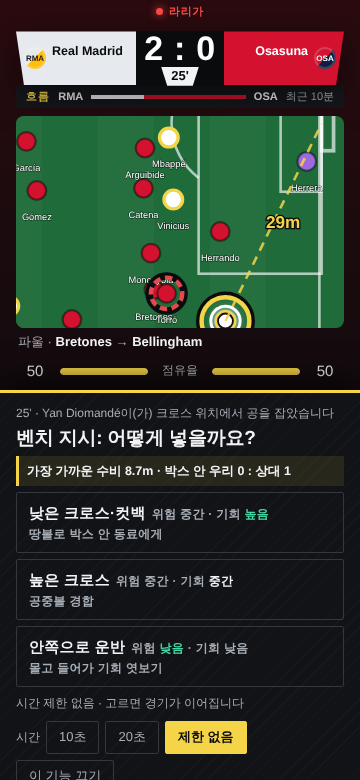
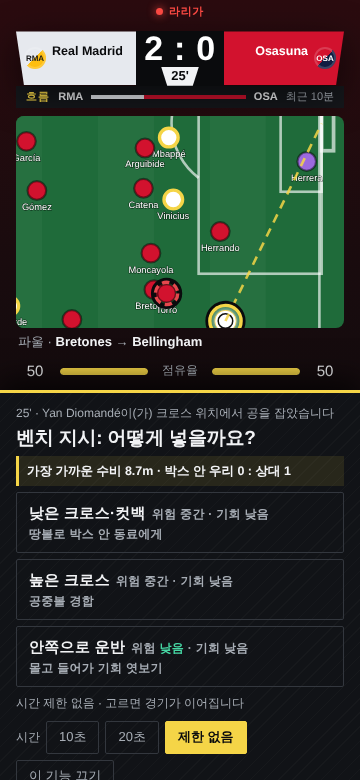
v269 후보: 결정 장면 확대 시 선수 원·이름 속성으로 축소(폰에서 겹침), 링 작게, 비세트피스 거리 글자 제거, 1대1 성향 3칸 막대(정보 줄), 승무패 예상에 선수 컨디션 반영
Claude-Session: https://claude.ai/code/session_01KSFtnn9mz1q7VWvYUaa5sq

diff --git a/src/app/0995_dec_view.js b/src/app/0995_dec_view.js
@@ -16,25 +16,28 @@ function dvVB(svg,x,y,w,h){svg.setAttribute('viewBox',`${x.toFixed(2)} ${y.toFix
 function dvZoom(svg,cx,cy,w){const h=w*68/105;let x=Math.max(-3,Math.min(108-w,cx-w/2)),y=Math.max(-3,Math.min(71-h,cy-h/2));
   const v0=(svg.getAttribute('viewBox')||'0 0 105 68').split(/\s+/).map(Number);const t0=performance.now(),id=++DV.anim;
   const step=now=>{if(id!==DV.anim)return;const k=Math.min(1,(now-t0)/300),e=k*(2-k);dvVB(svg,v0[0]+(x-v0[0])*e,v0[1]+(y-v0[1])*e,v0[2]+(w-v0[2])*e,v0[3]+(h-v0[3])*e);if(k<1)requestAnimationFrame(step)};requestAnimationFrame(step)}
-function dvClear(){DV.anim++;const svg=document.getElementById('m2d');if(svg){if(DV.vb!=null)svg.setAttribute('viewBox',DV.vb);svg.classList.remove('dvz')}DV.vb=null;const g=document.getElementById('dvL');if(g)g.remove();const sc=document.getElementById('scrim');if(sc)sc.classList.remove('dvm')}
+/* v269 사용자 선택(정보 줄에 3칸 막대): 1대1 상대 성향을 돌파·패스·슈팅 막대 길이로(숫자 없음). 실측 힌트 적중 44%(무작위 33%) → '살짝 기움' 수준이 그대로 보이게 셋을 함께 표시 */
+function dvTend(pr){if(!pr||pr.length!==3)return '';const mx=Math.max(...pr),ix=pr.indexOf(mx);const lb=mx>=.5?'기움':mx>=.42?'살짝 기움':'고른 편';
+  return `<div class="dvt">${['돌파','패스','슈팅'].map((n,i)=>`<span class="${i===ix&&mx>=.42?'on':''}"><em>${n}</em><i style="width:${Math.round(pr[i]*100)}%"></i></span>`).join('')}<b>${lb}</b></div>`}
+function dvClear(){DV.anim++;const svg=document.getElementById('m2d');if(svg){if(DV.vb!=null)svg.setAttribute('viewBox',DV.vb);svg.classList.remove('dvz');svg.querySelectorAll('#m2dP .pl circle[data-r0]').forEach(c=>{c.setAttribute('r',c.dataset.r0);delete c.dataset.r0});svg.querySelectorAll('#m2dP .pl text[data-f0]').forEach(t=>{t.setAttribute('font-size',t.dataset.f0);t.setAttribute('y',t.dataset.y0);delete t.dataset.f0;delete t.dataset.y0})}DV.vb=null;const g=document.getElementById('dvL');if(g)g.remove();const sc=document.getElementById('scrim');if(sc)sc.classList.remove('dvm')}
 function dvShow(d){const svg=document.getElementById('m2d');const f=dvFrame();if(!svg||!f||!d)return null;if(DV.vb==null)DV.vb=svg.getAttribute('viewBox')||'0 0 105 68';
   const me=M.me,atk=d.k==='def'?1-d.s:d.s,opp=1-atk,gx=dvGoalX(atk),gy=34,dir=gx>52?1:-1;
   let ball=[f.b[0],f.b[1]],our=[],their=[],marks=[],info='',zw=44,zc=null;
   if(d.k==='fk'){ball=dvE2D(d.x,d.y);our=[d.tk&&d.tk.id];info=`정면에서 ${d.info.ang}m 옆 · 번호는 선택지별로 공이 갈 곳 · 선수들은 아직 위치로 이동 중`;marks=[[gx,gy,'1'],[gx-dir*11,gy,'2'],[ball[0]-dir*6,ball[1]+(ball[1]<34?6:-6),'3']]}
   else if(d.k==='corner'){const L_=(d.info||{}).side==='L';const ey=d.s?(L_?67.5:.5):(L_?.5:67.5);ball=dvE2D(d.s?0:105,ey);our=[];their=[];const tid=dvIdByName((d.info||{}).tk);if(tid)our.unshift(tid);/* v268 검증 의견: 결정 순간 선수 위치는 코너 배치 전(이동 중)이라 공중볼 상위 선수 링은 판단을 왜곡 → 키커만 표시, 공중볼 비교는 글로 */
     const ny=ball[1]<34?30.3:37.7;marks=[[gx-dir*11,gy,'1'],[gx-dir*3,ny,'2'],[ball[0]-dir*9,ball[1]<34?ball[1]+3:ball[1]-3,'3']];info=`선수들은 아직 코너 위치로 이동 중 · 번호는 선택지별로 공이 갈 곳`;zc=[(ball[0]+gx-dir*11)/2,(ball[1]+gy)/2];zw=58}
-  else if(d.k==='def'){const ap=dvPos(f,d.atk),dp=dvPos(f,d.aid);if(ap)ball=ap;our=[d.aid];their=[d.atk];info=`상대 ${esc(shortName((d.info||{}).an||''))} → 골문까지 ${(d.info||{}).dist}m`;zw=38;zc=ap&&dp?[(ap[0]+dp[0])/2,(ap[1]+dp[1])/2]:null}
+  else if(d.k==='def'){const ap=dvPos(f,d.atk),dp=dvPos(f,d.aid);if(ap)ball=ap;our=[d.aid];their=[d.atk];info=`상대 ${esc(shortName((d.info||{}).an||''))} → 골문까지 ${(d.info||{}).dist}m`+dvTend((d.info||{}).pr);zw=38;zc=ap&&dp?[(ap[0]+dp[0])/2,(ap[1]+dp[1])/2]:null}
   else{const ap=dvPos(f,d.aid);if(ap)ball=ap;our=[d.aid];their=dvNear(f,opp,ball,1);const I=d.info||{};
     info=d.k==='box'?`골문까지 ${I.dist}m · 슈팅 길 수비 ${I.cone??'-'}명 · 가장 가까운 수비 ${I.nd}m · 박스 안 우리 ${I.bA} : 상대 ${I.bD}`:d.k==='cross'?`가장 가까운 수비 ${I.nd}m · 박스 안 우리 ${I.bA} : 상대 ${I.bD}`:`박스 안 우리 ${I.bA??'-'} : 상대 ${I.bD??'-'} · 가장 가까운 수비 ${I.nd??'-'}m`;zw=d.k==='box'?40:44;zc=[(ball[0]+gx)/2,(ball[1]+gy)/2]}
   if(!zc)zc=[(ball[0]+gx)/2,(ball[1]+gy)/2];
   const NS='http://www.w3.org/2000/svg';let g=document.getElementById('dvL');if(g)g.remove();g=document.createElementNS(NS,'g');g.id='dvL';g.setAttribute('pointer-events','none');
-  const ring=(id,col,r,dash)=>{const q=dvPos(f,id);if(!q)return '';return `<circle cx="${q[0]}" cy="${q[1]}" r="${r+.25}" fill="none" stroke="#0A0B0D" stroke-width="1"/><circle cx="${q[0]}" cy="${q[1]}" r="${r}" fill="none" stroke="${col}" stroke-width=".6"${dash?' stroke-dasharray="1 .6"':''}/>`};/* 검증 의견: 노랑·빨강 링이 겹쳐 구분 어려움 → 우리 큰 실선, 상대 작은 점선 + 검은 테두리 */
+  const ring=(id,col,r,dash)=>{const q=dvPos(f,id);if(!q)return '';return `<circle cx="${q[0]}" cy="${q[1]}" r="${r+.25}" fill="none" stroke="#0A0B0D" stroke-width=".7"/><circle cx="${q[0]}" cy="${q[1]}" r="${r}" fill="none" stroke="${col}" stroke-width=".45"${dash?' stroke-dasharray="1 .6"':''}/>`};/* 검증 의견: 노랑·빨강 링이 겹쳐 구분 어려움 → 우리 큰 실선, 상대 작은 점선 + 검은 테두리 */
   const dist=Math.hypot(gx-ball[0],gy-ball[1]);const lt=marks.length?.22:.6;let h='';
-  h+=`<line x1="${ball[0]}" y1="${ball[1]}" x2="${gx}" y2="${gy}" stroke="#F5D547" stroke-width=".35" stroke-dasharray="1.2 .9" opacity=".85"/><text x="${ball[0]+(gx-ball[0])*lt}" y="${ball[1]+(gy-ball[1])*lt+(ball[1]<34?-2.4:3.4)}" text-anchor="middle" font-size="2.3" font-weight="800" fill="#F5D547" stroke="#0A0B0D" stroke-width=".35" paint-order="stroke">${Math.round(dist)}m</text>`;
-  our.filter(Boolean).forEach((id,i)=>h+=ring(id,'#F5D547',i===0?3.2:2.6));their.filter(Boolean).forEach(id=>h+=ring(id,'#E5484D',2.1,1));
-  h+=`<circle cx="${ball[0]}" cy="${ball[1]}" r="1.9" fill="none" stroke="#fff" stroke-width=".4"><animate attributeName="r" values="1.4;2.6;1.4" dur="1.2s" repeatCount="indefinite"/></circle>`;
+  h+=`<line x1="${ball[0]}" y1="${ball[1]}" x2="${gx}" y2="${gy}" stroke="#F5D547" stroke-width=".35" stroke-dasharray="1.2 .9" opacity=".85"/>${marks.length?`<text x="${ball[0]+(gx-ball[0])*lt}" y="${ball[1]+(gy-ball[1])*lt+(ball[1]<34?-2.4:3.4)}" text-anchor="middle" font-size="2.3" font-weight="800" fill="#F5D547" stroke="#0A0B0D" stroke-width=".35" paint-order="stroke">${Math.round(dist)}m</text>`:''}`;
+  our.filter(Boolean).forEach((id,i)=>h+=ring(id,'#F5D547',i===0?2.1:1.8));their.filter(Boolean).forEach(id=>h+=ring(id,'#E5484D',1.5,1));
+  h+=`<circle cx="${ball[0]}" cy="${ball[1]}" r="1.2" fill="none" stroke="#fff" stroke-width=".3"><animate attributeName="r" values="1;1.7;1" dur="1.2s" repeatCount="indefinite"/></circle>`;
   marks.forEach(([x,y,t])=>h+=`<g><circle cx="${x}" cy="${y}" r="1.7" fill="#0A0B0D" stroke="#F5D547" stroke-width=".35"/><text x="${x}" y="${y+.8}" text-anchor="middle" font-size="2.2" font-weight="900" fill="#F5D547">${t}</text></g>`);
-  g.innerHTML=h;svg.appendChild(g);svg.classList.add('dvz');dvZoom(svg,zc[0],zc[1],zw);return {info,marks:marks.length}}
+  g.innerHTML=h;svg.appendChild(g);svg.classList.add('dvz');/* v269 사용자 화면: 폰에서 CSS r가 안 먹어 확대 시 선수 원이 커져 겹침 → 속성으로 직접 줄이고 해제 때 되돌림 */svg.querySelectorAll('#m2dP .pl circle').forEach(c=>{if(c.dataset.r0==null)c.dataset.r0=c.getAttribute('r');c.setAttribute('r',(+c.dataset.r0*.62).toFixed(2))});svg.querySelectorAll('#m2dP .pl text').forEach(t=>{if(t.dataset.f0==null){t.dataset.f0=t.getAttribute('font-size');t.dataset.y0=t.getAttribute('y')}t.setAttribute('font-size','1.3');t.setAttribute('y','2.6')});dvZoom(svg,zc[0],zc[1],zw);return {info,marks:marks.length}}
 /* 결정 시트: 낮게 + 뒤 피치 보이게 + 위치 정보 한 줄 + 세트피스는 선택지 번호 */
 {const _ds=decSheet;decSheet=function(){const r=_ds.apply(this,arguments);try{const d=M&&M.m&&M.m.st.pendingDec;if(!d)return r;const sc=document.getElementById('scrim');if(sc)sc.classList.add('dvm');const o=dvShow(d);const sh=sc&&sc.querySelector('.sheet');
   if(o&&sh){const h3=sh.querySelector('h3');if(h3&&o.info)h3.insertAdjacentHTML('afterend',`<div class="dvinfo">${o.info}</div>`);if(o.marks){[...sh.querySelectorAll('[data-mo^="dec:"]')].slice(0,3).forEach((b,i)=>{const bb=b.querySelector('b');if(bb)bb.insertAdjacentHTML('beforebegin',`<span class="dvn">${i+1}</span>`)})}}}catch(e){console.error(e)}return r}}
@@ -46,6 +49,7 @@ function dvShow(d){const svg=document.getElementById('m2d');const f=dvFrame();if
 {const st=document.createElement('style');st.textContent=`.scrim.dvm{background:transparent;pointer-events:none}.scrim.dvm .sheet{pointer-events:auto;max-height:50%;box-shadow:0 -10px 28px rgba(0,0,0,.7);padding-top:12px}
 .scrim.dvm .sheet h3{margin:2px 0 4px}.scrim.dvm .sheet .btn{padding:9px 12px;margin-top:6px}.dvinfo{margin:0 0 6px;padding:6px 8px;background:rgba(245,213,71,.10);border-left:3px solid var(--amber,#F5D547);font-size:12.5px;font-weight:700;color:var(--text,#F2F3F5)}
 body:has(.scrim.dvm) .bpgoal{display:none!important}#m2d.dvz .pl text{font-size:1.25px;stroke-width:.15px}#m2d.dvz .pl circle{r:1.25px}
+.dvt{display:flex;align-items:center;gap:6px;margin-top:5px}.dvt span{flex:1;display:flex;flex-direction:column;gap:2px}.dvt em{font-style:normal;font-size:11px;font-weight:700;color:var(--muted,#A7ADB5)}.dvt i{display:block;height:6px;background:#5a5f68;min-width:6px}.dvt span.on em{color:var(--text,#F2F3F5)}.dvt span.on i{background:var(--amber,#F5D547)}.dvt b{flex:none;font-size:11.5px;color:var(--amber,#F5D547)}
 .dvn{display:inline-grid;place-items:center;width:18px;height:18px;margin-right:6px;border:1.5px solid var(--amber,#F5D547);color:var(--amber,#F5D547);font-size:11px;font-weight:900;border-radius:50%;vertical-align:1px}`;document.head.appendChild(st)}
 
 /* v269 검증 의견: 크로스 장면 위험·기회 등급이 고정이라 박스 안 우리 0명이어도 '낮은 크로스 기회 높음'으로 나옴 → 박스 안 우리 숫자(화면에 보이는 사실)로만 조정. 엔진 실측(v253 강제 선택 5,600장면): 박스에 우리 선수가 없으면 낮은 크로스 가치 ×.55·높은 크로스 ×.72, 3명 이상이면 ×1.15 */

diff --git a/src/app/0990_theme_bplus.js b/src/app/0990_theme_bplus.js
@@ -106,7 +106,7 @@ function bpXgChart(R){if(!R||!R.xgs)return '';const W=320,H=110,P=6,mx=Math.max(
 // 계산 중에는 Math.random을 임시 고정값으로 바꿔 게임의 난수 흐름을 건드리지 않음. 같은 날·같은 경기는 캐시
 function bpNextFx(){try{const mn=myNext();const fr=S.friendlies.find(x=>!x.res);return [fr,mn,(typeof cupNextMine==='function'?cupNextMine():null)].filter(Boolean).sort((a,b)=>a.d<b.d?-1:1)[0]||null}catch(e){return null}}
 function bpPred(fx){if(!fx||typeof FASTM==='undefined')return null;const key=S.date+'|'+fx.d+'|'+fx.h+'|'+fx.a+'|'+(S.xi||[]).join(',');if(bpPred.k===key)return bpPred.v;
-  const R0=Math.random;let out=null;try{Math.random=()=>.5;const H=teamFor(fx.h),A=teamFor(fx.a);if(H&&A&&H.xi&&A.xi){const av=t=>t.xi.reduce((s,p)=>s+effO(p),0)/Math.max(1,t.xi.length);
+  const R0=Math.random;let out=null;try{Math.random=()=>.5;const H=teamFor(fx.h),A=teamFor(fx.a);if(H&&A&&H.xi&&A.xi){const cm=p=>{try{return (typeof E3!=='undefined'&&E3.COND_M)?E3.COND_M[p.cond??2]??1:1}catch(e){return 1}};const av=t=>t.xi.reduce((s,p)=>s+effO(p)*cm(p),0)/Math.max(1,t.xi.length);/* v269 사용자 지적(5연승 vs 5연패 팀 예상이 비슷): 예상에 선수 컨디션(경기 엔진과 같은 배율 ±8%, 연승·연패·최근 평점이 반영됨)을 넣음. 이전엔 능력·체력·홈만 */
     const d=av(H)-av(A),a=(typeof divOf==='function'&&divOf(fx.h)===2)?FASTM.a2:FASTM.a,lh=Math.exp(a+FASTM.b*d+FASTM.h),la=Math.exp(a-FASTM.b*d-FASTM.h);
     const P=l=>{const r=[];let p=Math.exp(-l);for(let k=0;k<11;k++){r.push(p);p*=l/(k+1)}return r};const ph=P(lh),pa=P(la);let w=0,dr=0,lo=0;
     for(let i=0;i<11;i++)for(let j=0;j<11;j++){const q=ph[i]*pa[j];if(i>j)w+=q;else if(i===j)dr+=q;else lo+=q}const t=w+dr+lo;
